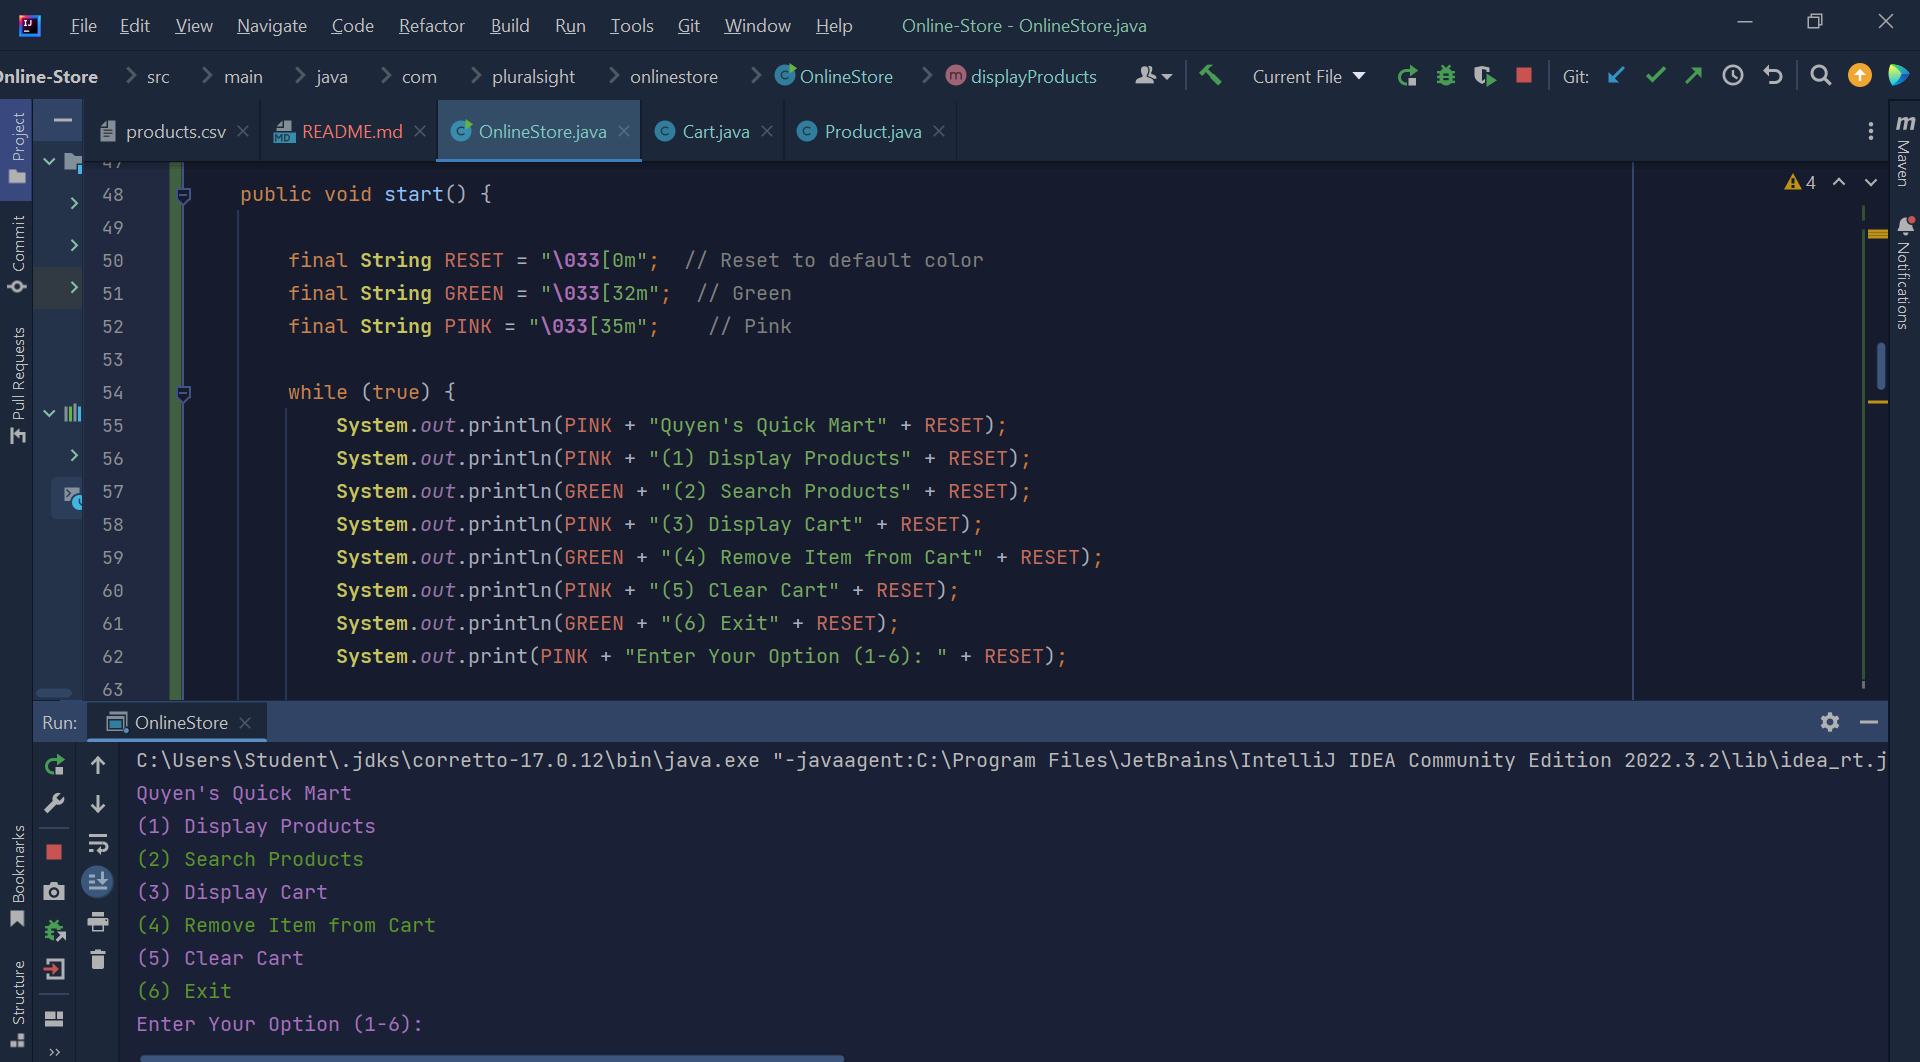
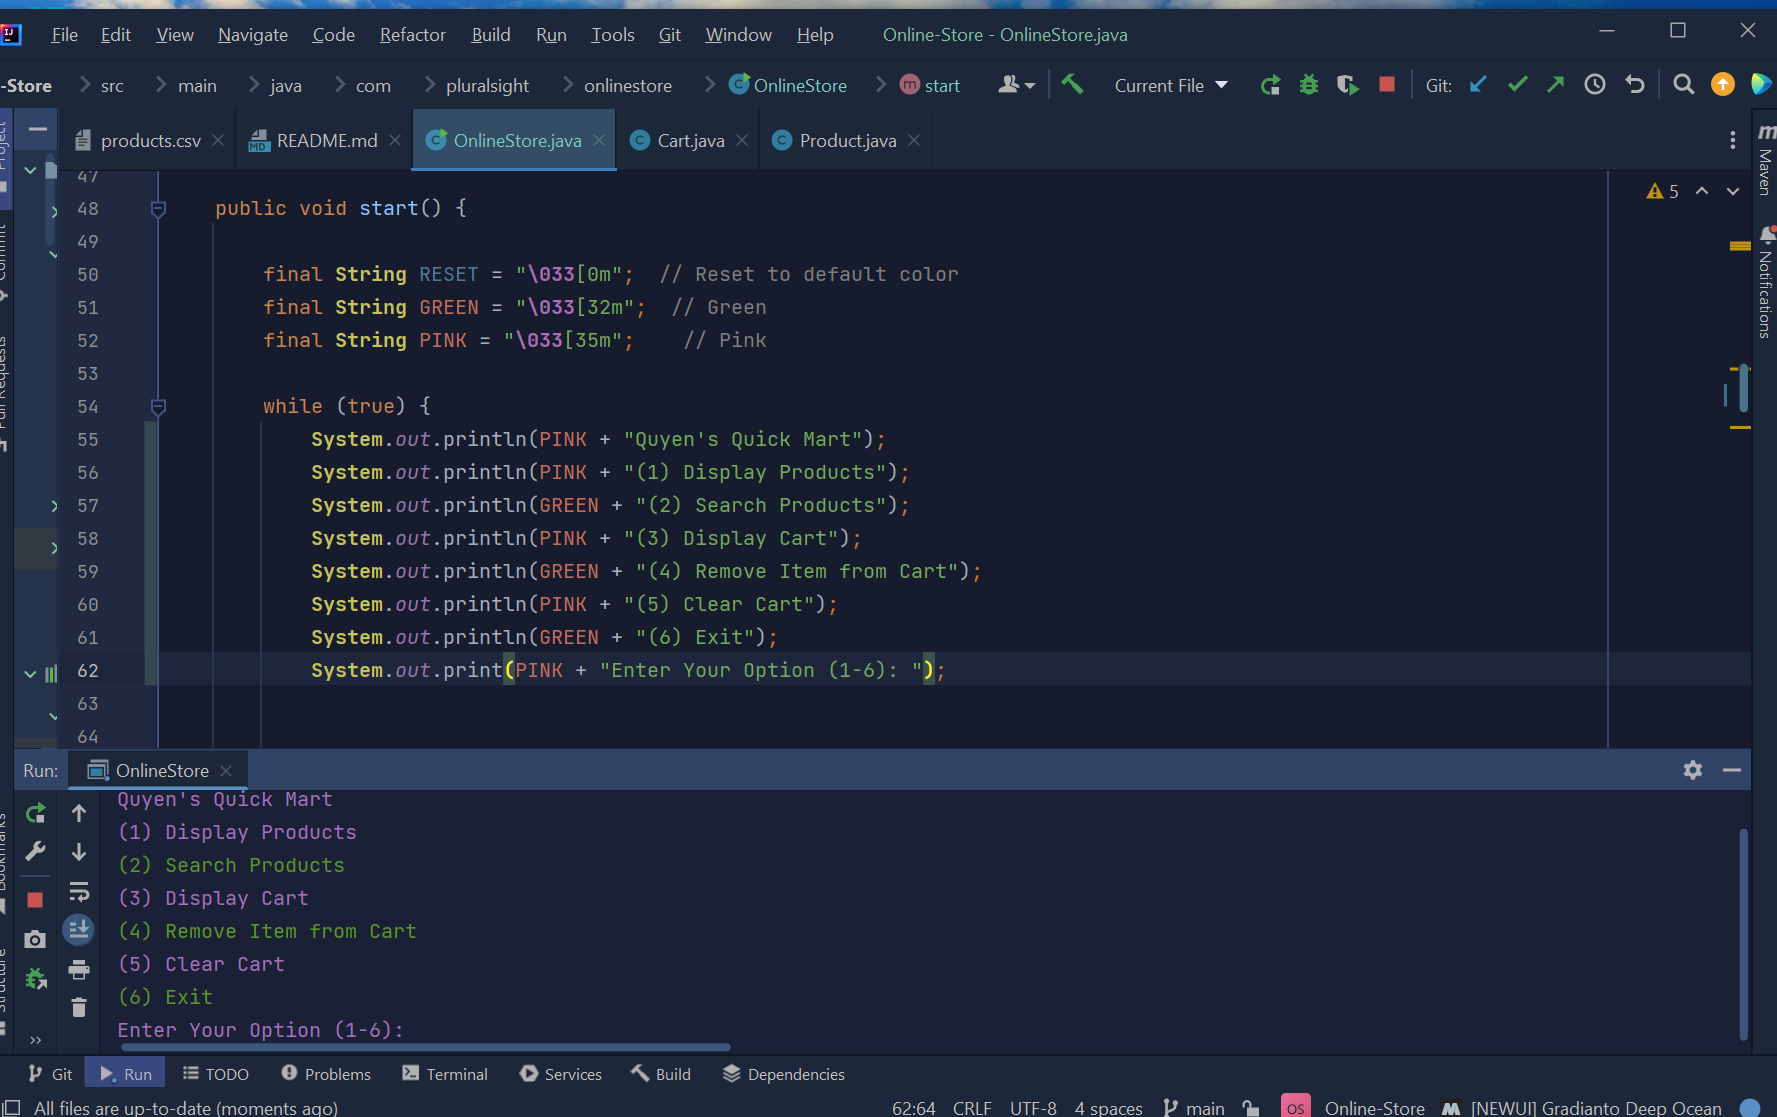
finished Online Store

diff --git a/Online-Store/src/main/java/com/pluralsight/onlinestore/OnlineStore.java b/Online-Store/src/main/java/com/pluralsight/onlinestore/OnlineStore.java
@@ -52,14 +52,14 @@ public class OnlineStore {
         final String PINK = "\033[35m";    // Pink
 
         while (true) {
-            System.out.println(PINK + "Quyen's Quick Mart" + RESET);
-            System.out.println(PINK + "(1) Display Products" + RESET);
-            System.out.println(GREEN + "(2) Search Products" + RESET);
-            System.out.println(PINK + "(3) Display Cart" + RESET);
-            System.out.println(GREEN + "(4) Remove Item from Cart" + RESET);
-            System.out.println(PINK + "(5) Clear Cart" + RESET);
-            System.out.println(GREEN + "(6) Exit" + RESET);
-            System.out.print(PINK + "Enter Your Option (1-6): " + RESET);
+            System.out.println(PINK + "Quyen's Quick Mart");
+            System.out.println(PINK + "(1) Display Products");
+            System.out.println(GREEN + "(2) Search Products");
+            System.out.println(PINK + "(3) Display Cart");
+            System.out.println(GREEN + "(4) Remove Item from Cart");
+            System.out.println(PINK + "(5) Clear Cart");
+            System.out.println(GREEN + "(6) Exit");
+            System.out.print(PINK + "Enter Your Option (1-6): ");
 
 
             int option = scanner.nextInt();
